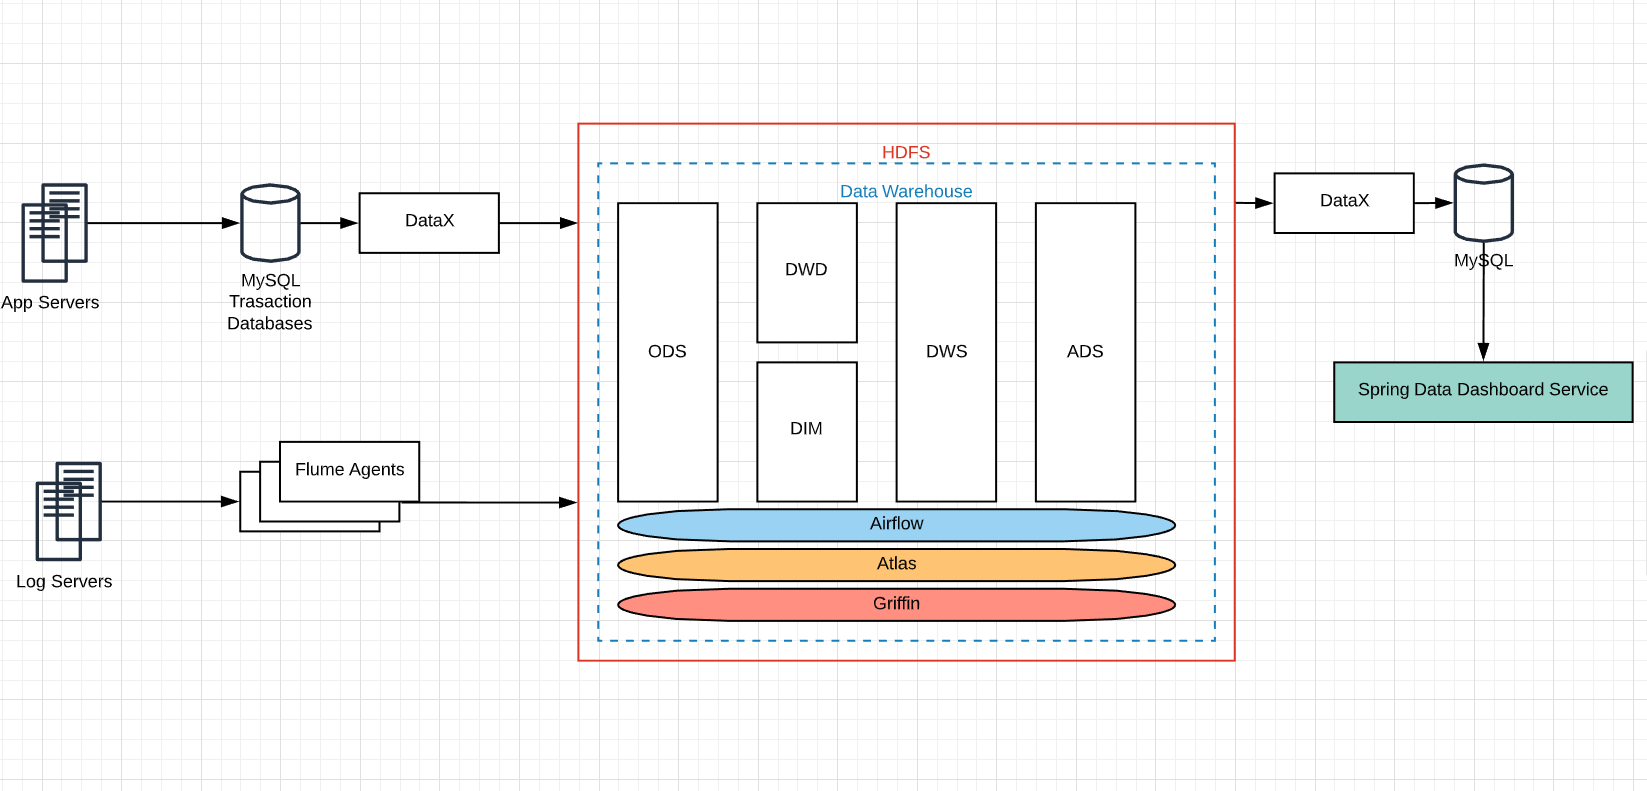
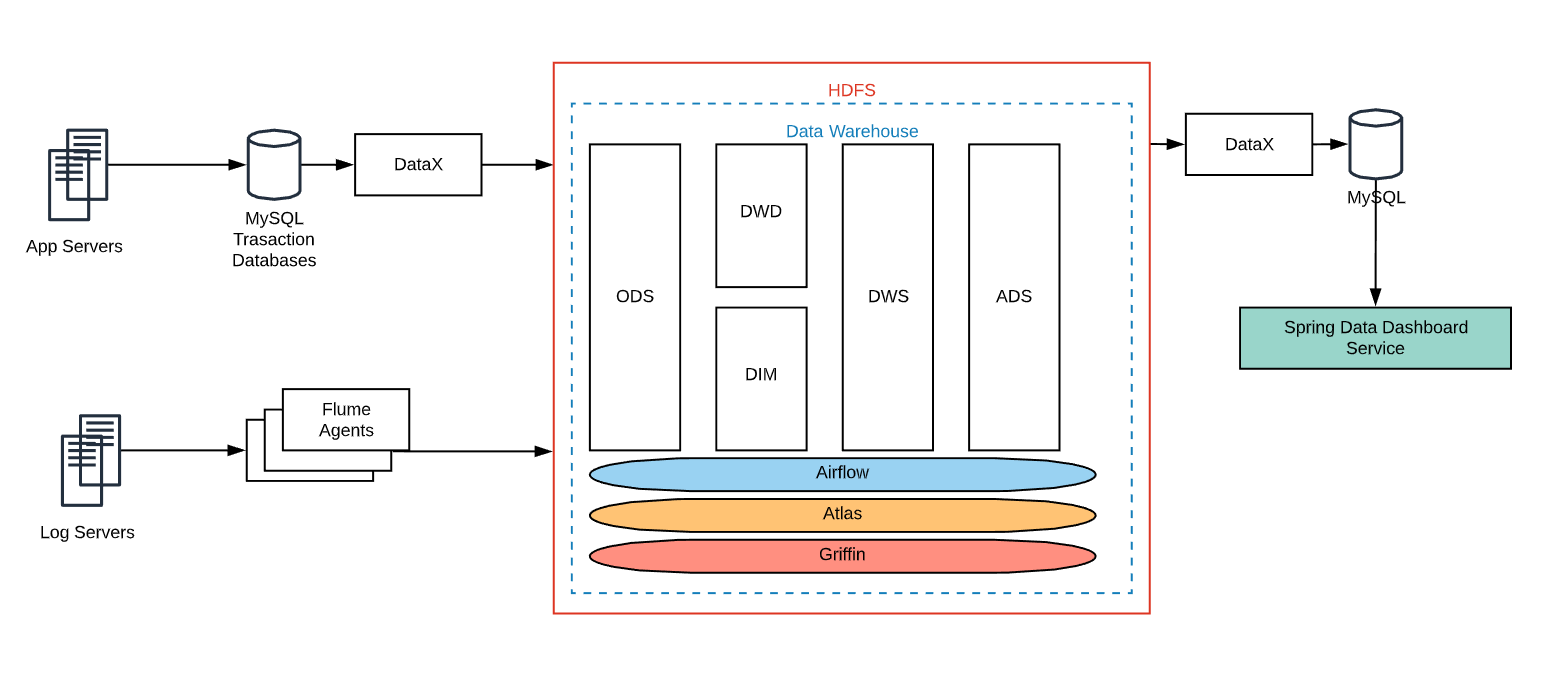
adding visualization component architecture diagram

Changed region(s): [[0.0, 0.0918, 0.9207, 0.9184], [0.7366, 0.398, 1.0, 0.551]]

diff --git a/datawarehouse/readme.md b/datawarehouse/readme.md
@@ -19,10 +19,6 @@ Data Warehouse Modeling documentation is organized into type of matrices that we
 
 ![](../rsrc/dw_ad_model.png)
 
-
-
-
-
 # Data Import
 
 ## Sync Start Log and Event Log to HDFS - Flume

diff --git a/visualization/readme.md b/visualization/readme.md
@@ -1,6 +1,6 @@
 # Data Visualization
 
-
+![](../rsrc/visualization_archtecture.png)
 
 ## TODO
 
